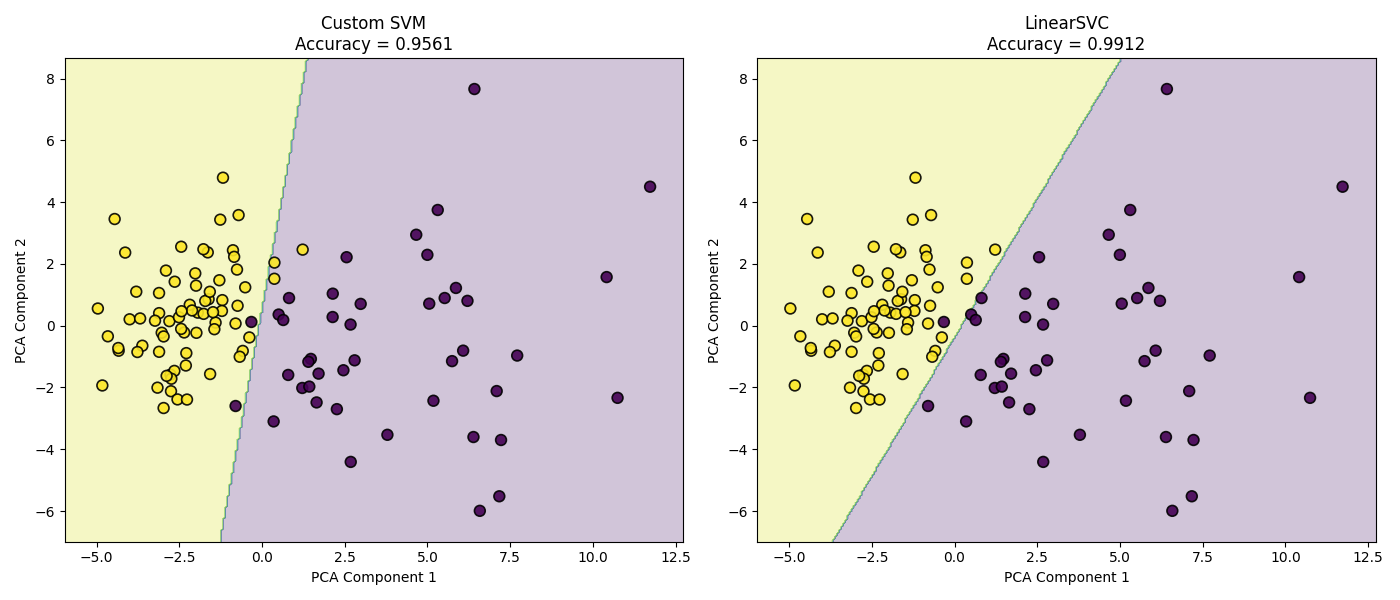
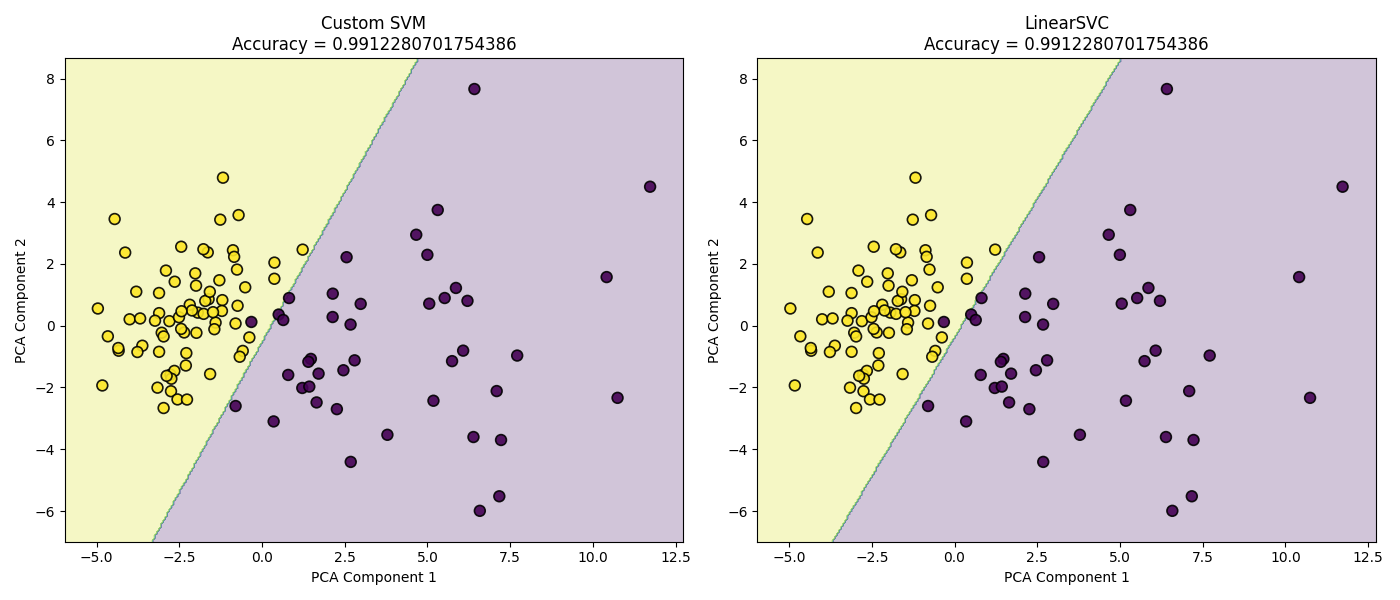
implemented soft margin using c and got the exact same accuracy of svm from library

Changed region(s): [[0.1536, 0.06, 0.3686, 0.57], [0.0921, 0.6, 0.1843, 0.93], [0.645, 0.06, 0.86, 0.09]]

diff --git a/ML/scratch/svm/svm_scratch.py b/ML/scratch/svm/svm_scratch.py
@@ -7,9 +7,9 @@ from sklearn.svm import LinearSVC
 from sklearn.metrics import accuracy_score
 from sklearn.decomposition import PCA
 class SVM:
-    def __init__(self,learning_rate = 0.1,lambd = 0.5,n_iters=100):
+    def __init__(self,learning_rate = 0.1,c = 0.5,n_iters=100):
         self.lr = learning_rate
-        self.l = lambd
+        self.c = c
         self.n_iter = n_iters
         self.w = None
         self.b = None
@@ -24,11 +24,11 @@ class SVM:
             for idx,x_val in enumerate(X):
                 condition = y_[idx]*(np.dot(x_val,self.w)+self.b)>=1
 
-                if(condition):
-                    self.w = self.w- self.lr*(2*(self.l*self.w))
+                if condition:
+                    self.w = self.w - self.lr * self.w
                 else:
-                    self.w = self.w - self.lr*(2*self.l*self.w- y_[idx]*x_val)
-                    self.b = self.b - self.lr*(y_[idx])
+                    self.w = self.w - self.lr * (self.w - self.c * y_[idx] * x_val)
+                    self.b = self.b + self.lr * self.c * y_[idx]
     def predict(self,X):
         value = np.dot(X,self.w)+self.b
         return np.sign(value)
@@ -51,7 +51,7 @@ pca = PCA(n_components=2)
 X_train_2d = pca.fit_transform(X_train)
 X_test_2d = pca.transform(X_test)
 
-custom_svm = SVM(learning_rate=0.00000000009, lambd=0.0001, n_iters=3000)
+custom_svm = SVM(learning_rate=0.00001, c=200.0 ,n_iters=10000)
 custom_svm.fit(X_train_2d, y_train)
 
 sk_svm = LinearSVC()
@@ -89,7 +89,7 @@ def plot_boundary(ax, model, X, y, title, accuracy):
         alpha=0.9
     )
 
-    ax.set_title(f"{title}\nAccuracy = {accuracy:.4f}")
+    ax.set_title(f"{title}\nAccuracy = {accuracy:}")
     ax.set_xlabel("PCA Component 1")
     ax.set_ylabel("PCA Component 2")
 acc_custom = accuracy_score(y_test, y_pred_custom)

diff --git a/ML/scratch/svm/README.md b/ML/scratch/svm/README.md
@@ -1,0 +1,29 @@
+# SVM from Scratch: Minimal Implementation
+
+This folder contains a minimal implementation of a linear Support Vector Machine (SVM) from scratch, compared directly with scikit-learn's `LinearSVC` on the Breast Cancer dataset (reduced to 2D with PCA for visualization).
+
+## What is this?
+- `svm_scratch.py` — Pure Python SVM (no ML libraries for the core logic)
+- Compares our SVM with scikit-learn's SVM
+- Visualizes decision boundaries and prints accuracy
+
+## Results
+- **Custom SVM Accuracy:** 0.9912
+- **scikit-learn SVM Accuracy:** 0.9912
+
+The plot below shows how both models draw their decision boundaries. Our scratch SVM matches scikit-learn's output:
+
+![Decision Boundary Comparison](figure_1.png)
+
+## How to Run
+```bash
+python svm_scratch.py
+```
+
+## Output
+- Prints accuracy for both models
+- Shows a plot comparing decision boundaries
+
+---
+
+**Note:** This code is for learning and demonstration. It is intentionally minimal and not optimized for production.